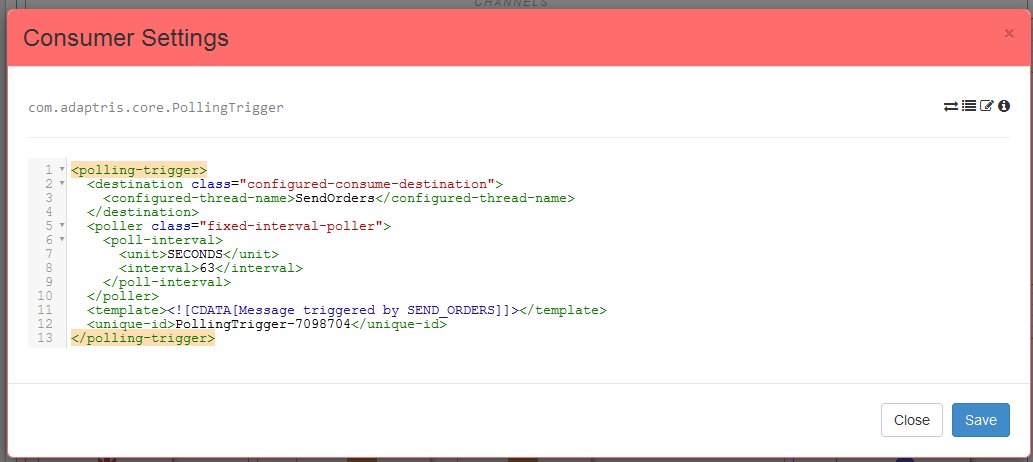
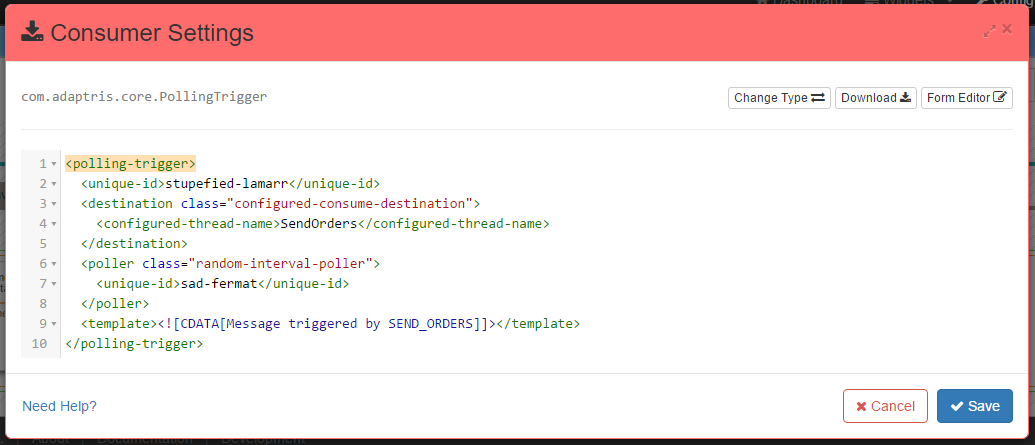
INTERLOK-903 #time 30m #comment Fix broken rendering on the config template documentation page. Update image for the xml modal in the config page.

Changed region(s): [[0.0, 0.0, 1.0, 1.0], [0.0, 0.3506, 0.5886, 0.7888], [0.0, 0.2045, 0.2788, 0.2629]]

diff --git a/pages/ui/ui-config.md b/pages/ui/ui-config.md
@@ -39,6 +39,7 @@ Just click on the Open Config button and that will open a modal displaying sever
 ## Navigating the config page ##
 
 Consider the following example of a typical config page:
+
 ![Typical config page example](./images/ui-user-guide/config-page-with-everything-open.png)
 
 In this example, the config page is made up of the following sections:
@@ -104,11 +105,11 @@ This component is a typical example and shows:
 
 ## Delete component features ##
 
-To delete a given component, you would click on the trash can icon ![Config page delete component action button](./images/ui-user-guide/config-workflow-bar-action-delete.png)  that's either in the header bar of that components area or if you hover over a given component it will present itself. Clicking on the trash can would therefore remove that component from the config.
+To delete a given component, you would click on the trash can icon ![Config page delete component action button](./images/ui-user-guide/config-workflow-bar-action-delete.png){: .inline }  that's either in the header bar of that components area or if you hover over a given component it will present itself. Clicking on the trash can would therefore remove that component from the config.
 
 ## Add component features ##
 
-To add a given component, you would click on the plus icon ![Config page add component action button](./images/ui-user-guide/dashboard-workflow-control-toggle.png), this will present itself when you hover over a list component, such as the  channel list, workflow list, service list, etc.
+To add a given component, you would click on the plus icon ![Config page add component action button](./images/ui-user-guide/dashboard-workflow-control-toggle.png){: .inline }, this will present itself when you hover over a list component, such as the  channel list, workflow list, service list, etc.
 
 When adding a component, after clicking the plus icon, you'll be presented with the add component modal window.
 
@@ -132,9 +133,10 @@ To actually add the component, all you have to do is click on the required compo
 
 ## Settings editor features ##
 
-The settings editor is available when you want to edit a component. This is always available by clicking on the edit icon ![Config page edit component action button](./images/ui-user-guide/config-action-edit.png). This editor allows you to edit the settings on a given component.
+The settings editor is available when you want to edit a component. This is always available by clicking on the edit icon ![Config page edit component action button](./images/ui-user-guide/config-action-edit.png){: .inline }. This editor allows you to edit the settings on a given component.
 
 Example of a typical settings editor:
+
 ![Typical edit component modal window](./images/ui-user-guide/config-edit-component.png)
 
 You will notice that there is a input control per field for that given component.
@@ -148,11 +150,13 @@ This will allow you to select a given implementation for that field, this is han
 As well as string, number and boolean inputs, there are special inputs for SQL, XML, Script, etc, that allow better editting of those values.
 
 Example of a typical settings editor with a script input:
-![Typical edit component modal window with a script input](./images/ui-user-guide/config-edit-componet-custom.png)
+
+![Typical edit component modal window with a script input](./images/ui-user-guide/config-edit-componet-custom.png){: .inline }
 
 As well as allowing you to easily edit the values of a component, if you do want to switch to the advanced XML config mode, then you would press the XML icon in the editors header ![Config page edit component xml action button](./images/ui-user-guide/config-xml-editor.png).
 
 Example of a typical settings editor in XML mode:
+
 ![typical settings editor in XML mode](./images/ui-user-guide/config-edit-component-xml.png)
 
 The following image shows an annotated settings editor:

diff --git a/pages/ui/ui-templates.md b/pages/ui/ui-templates.md
@@ -121,7 +121,8 @@ The example above defines 3 wizard steps to be presented as 3 separate screens: 
 
 ### Wizard Steps ###
 
-From the example above :
+From the example above:
+
 ```xml
 <vendor-implementation class="basic-active-mq-implementation">
   <broker-url wizard-key="brokerUrl" wizard-label="Broker Url"
@@ -275,6 +276,7 @@ The full XML that is created will look similar to the below
   <message-error-digester class="null-message-error-digester"/>
 </adapter>
 ```
+
 - The connection details have been updated.
     - The password has been encrypted because we selected the checkbox.
 - The JMS Queue to read from, and the add metadata service have been updated with `SampleQ1`
@@ -287,7 +289,9 @@ To facilitate re-usability of templates you can use the community templates remo
 In order to use this you will have to enable Version Control in the adapter. Please check [version control with subversion](advanced-vcs-svn.html#installation) for more details on how to do it.
 
 Once enabled users will be able to create a new template [vcs profile](ui-version-control.html) with the community repository details. A new folder will be visible in the add component modal when adding a new component (adapter, channel, workflow...).
+
 ![Save as Template Wizard Select Fields Screen](./images/ui-user-guide/community-templates.png)
+
 Users can open the folder and select a community template for the chosen component.
 
 A user will also be able to push templates to a community repository when saving a template by checking the "Push To Community Repository" checkbox and providing his community password if needed.

diff --git a/pages/ui/ui-dashboard.md b/pages/ui/ui-dashboard.md
@@ -254,7 +254,7 @@ The Add Adapter form inputs explained:
 
 - **Name:** This property is for display purposes and also an easy way to differentiate Adapters registered within the UI web application.
 - **Adapter Unique Id:** This is the Adapter unique identifier used in the Adapter configuration XML file: `<adapter><unique-id>adapterUid</unique-id</adapter>`. This is required for the UI to establish the JMX connection to the Adapter.
-- **URL:** The JMX URL used to connect to the Adapter, for example: service:jmx:jmxmp://localhost:5555
+- **URL:** The JMX URL used to connect to the Adapter, for example: localhost:5555. You can also provide the JMX protocol: service:jmx:jmxmp://localhost:5555
 - **Advanced Options** - Clicking the Advanced Options link will unveil three more properties, all of which are optional :
     - **Username:** The username needed to establish the JMX connection if you are using password protection for the adapter JMX connection as describe in [Password Protecting JMXMP](advanced-jmx.html#password-protecting-jmxmp-311) (Since 3.1.1)
     - **Password:** The password needed to establish the JMX connection if you are using password protection for the adapter JMX connection as describe in [Password Protecting JMXMP](advanced-jmx.html#password-protecting-jmxmp-311) (Since 3.1.1)
